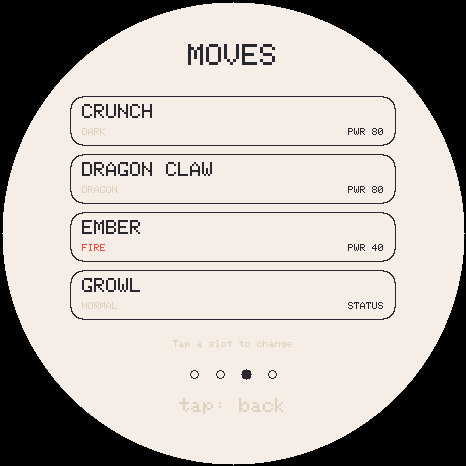
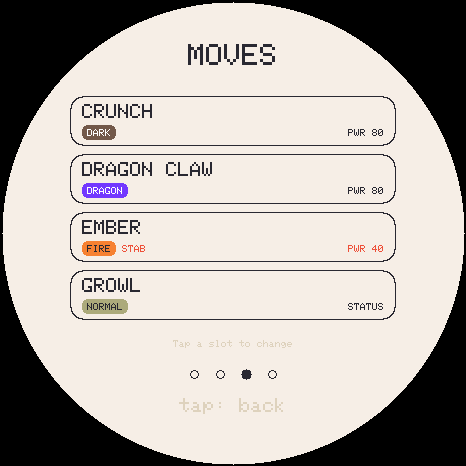
Gate the move picker properly, and make a move's type readable
Two things reported from the board.

THE PICKER HAD ITS OWN GATE. learnableFor() checked learnLevel() alone,
and a TM is stored as level 0 in the learnsets -- PokeAPI flattens TM,
tutor and egg moves that way -- so 0 > lvl is false at ANY level and
every TM the species can ever learn was on offer from level 1. Hence a
level 22 Charmeleon being handed FIRE BLAST, 110 power.

This is the level 1 Squirtle with SURF, in the one path that fix never
reached: TM_LEVEL was enforced in relearnFromLevel() and in the STAB
fallback, both inside pet.cpp, while the picker in the sketch had its own
opinion. There is one answer now, moveUnlockLevel(), and all three ask
it. A Charmeleon at 22 gets EMBER GROWL SCRATCH LEER -- exactly its
level-up set -- with FLAMETHROWER at 34, the TMs at 40 and DRAGON RAGE
at 48.

Pinned twice on purpose. moves_test asserts the RULE (no entry unlocks at
0, no TM before 20, and Charmeleon's real levels are untouched), and
swipe_test asserts the SCREEN asks it, because reverting the picker alone
failed nothing otherwise -- the rule being right does not prove the
caller uses it.

TYPE IS NOW A COLOURED CHIP rather than grey 6px text, on the move rows
and in the battle grid. In a game whose entire combat model is the type
chart, the type was the least legible thing on screen. TYPE_COL is
hand-written in types.h because it is not derived from anything --
DexEntry.accent is per species and says nothing about a move -- and the
[…]

diff --git a/tools/emu/tests/swipe_test.cpp b/tools/emu/tests/swipe_test.cpp
@@ -6,6 +6,7 @@
 #include "Arduino_GFX_Library.h"
 #include "Preferences.h"
 #include "pet.h"
+#include "moves.h"
 #include "party.h"
 #include <cstdio>
 uint32_t g_seed=2; FakeSerial Serial; FakeESP ESP; FakeWire Wire;
@@ -43,6 +44,8 @@ static void check(const char *name, bool *open, uint8_t *page){
   if (*page != 1) { printf("FAIL  %-10s did not advance a page (page=%u)\n", name, *page); bad++; return; }
   printf("PASS  %-10s pages on a horizontal swipe\n", name);
 }
+uint8_t learnableFor(int16_t dex, uint8_t lvl, uint8_t *out, uint8_t max);
+
 int main(){
   setup();
   for (int i=0;i<4;i++) render();
@@ -144,6 +147,26 @@ int main(){
     onSwipe(1);
     if (!galleryPick || !galleryOpen) { printf("FAIL  gallery    paging back does not return to the chooser\n"); bad++; }
     else printf("PASS  %-10s paging back returns to the chooser\n", "gallery");
+  }
+
+  // The rule lives in moveUnlockLevel() and moves_test pins it -- but the
+  // PICKER has to actually ask it. It once kept its own copy of the check,
+  // which IS the bug, so this drives the screen's own list, not the rule.
+  {
+    uint8_t l[64];
+    uint8_t n = learnableFor(5, 22, l, sizeof(l));    // a Charmeleon at 22
+    bool blast = false, ember = false;
+    for (uint8_t i = 0; i < n; i++) {
+      if (!strcmp(MOVE_TBL[l[i]].name, "FIRE BLAST")) blast = true;
+      if (!strcmp(MOVE_TBL[l[i]].name, "EMBER")) ember = true;
+    }
+    if (blast) { printf("FAIL  picker     offers a level 22 Charmeleon FIRE BLAST\n"); bad++; }
+    else printf("PASS  picker     no FIRE BLAST for a level 22 Charmeleon\n");
+    if (!ember) { printf("FAIL  picker     lost the moves it really knows\n"); bad++; }
+    else printf("PASS  picker     still offers what it really knows\n");
+    if (learnableFor(5, 40, l, sizeof(l)) <= n) {
+      printf("FAIL  picker     TMs never arrive at all\n"); bad++;
+    } else printf("PASS  picker     and the TMs arrive once it is built\n");
   }
 
   printf("%s\n", bad?"FAILURES":"every paged screen pages");

diff --git a/tools/emu/tests/moves_test.cpp b/tools/emu/tests/moves_test.cpp
@@ -133,6 +133,38 @@ int main() {
   ck(aligned, "legacy party blob migrates with slots still aligned");
   ck(pty.count() == PARTY_SLOTS, "all 6 legacy members survive");
 
+  // The MOVE PICKER had its own gate and so its own opinion: it checked
+  // learnLevel() alone, and a TM is stored as level 0, so a level 22 Charmeleon
+  // was offered FIRE BLAST (110 power). Found by hand on the board, exactly
+  // like the level 1 Squirtle holding SURF -- the same bug in the one path that
+  // fix never reached. moveUnlockLevel() is the single answer now.
+  {
+    int zero = 0, tooEarly = 0;
+    for (int16_t d = 1; d <= DEX_COUNT; d++)
+      for (uint8_t i = 0; i < learnCount(d); i++) {
+        uint8_t at = moveUnlockLevel(d, i);
+        if (at == 0) zero++;
+        if (learnLevel(d, i) == 0 && at < 20) tooEarly++;
+      }
+    ck(zero == 0, "no learnset entry anywhere unlocks at level 0");
+    ck(tooEarly == 0, "and no TM is reachable before a creature is built");
+
+    const int16_t CHARMELEON = 5;
+    bool early = false, late = false, ember1 = false, flame34 = false;
+    for (uint8_t i = 0; i < learnCount(CHARMELEON); i++) {
+      uint8_t mv = learnMove(CHARMELEON, i);
+      if (mv >= MOVE_COUNT) continue;
+      uint8_t at = moveUnlockLevel(CHARMELEON, i);
+      if (!strcmp(MOVE_TBL[mv].name, "FIRE BLAST")) { early = at <= 22; late = at >= 40; }
+      if (!strcmp(MOVE_TBL[mv].name, "EMBER")) ember1 = (at == 1);
+      if (!strcmp(MOVE_TBL[mv].name, "FLAMETHROWER")) flame34 = (at == 34);
+    }
+    ck(!early, "a level 22 Charmeleon is NOT offered FIRE BLAST");
+    ck(late, "it waits for the TM level like every other TM");
+    ck(ember1 && flame34,
+       "while its real level-up moves keep their real levels (EMBER 1, FLAMETHROWER 34)");
+  }
+
   printf("%s\n", bad ? "FAILURES" : "all good");
   return bad ? 1 : 0;
 }

diff --git a/types.h b/types.h
@@ -40,3 +40,32 @@ static inline const char *typeName(uint8_t t) {
   };
   return (t < TYPE_COUNT) ? N[t] : "?";
 }
+
+// One colour per type, for the chips on move rows and the battle grid. The move
+// list used to print the type as grey 6px text, which on a 466px round panel at
+// arm's length is unreadable -- and type is the single most important thing
+// about a move in a game whose whole combat model is the type chart.
+//
+// These are the standard series type colours converted to RGB565. They are
+// hand-written rather than generated because they are not derived from anything:
+// DexEntry.accent is per SPECIES and says nothing about a move.
+static const uint16_t TYPE_COL[TYPE_COUNT] = {
+  0xAD4F, 0xF406, 0x6C9E,     // NORMAL, FIRE, WATER
+  0xFE86, 0x7E4A, 0x9EDB,     // ELECTRIC, GRASS, ICE
+  0xC185, 0xA214, 0xE60D,     // FIGHTING, POISON, GROUND
+  0xAC9E, 0xFAD1, 0xADC4,     // FLYING, PSYCHIC, BUG
+  0xBD07, 0x72D3, 0x71DF,     // ROCK, GHOST, DRAGON
+  0x72C9, 0xBDDA, 0xECD5,     // DARK, STEEL, FAIRY
+};
+
+// Whether a type's colour is light enough to need dark text on it. Precomputed
+// from the same luminance the eye uses (0.299/0.587/0.114) so the label never
+// comes out grey-on-yellow.
+static const uint8_t TYPE_COL_LIGHT[TYPE_COUNT] = { 1, 1, 0, 1, 1, 1, 0, 0, 1, 1, 0, 1, 1, 0, 0, 0, 1, 1 };
+
+static inline uint16_t typeColor(uint8_t t) {
+  return t < TYPE_COUNT ? TYPE_COL[t] : 0x8410;
+}
+static inline bool typeColorIsLight(uint8_t t) {
+  return t < TYPE_COUNT && TYPE_COL_LIGHT[t];
+}

diff --git a/pet.h b/pet.h
@@ -37,6 +37,8 @@ enum : uint16_t {
 };
 #define MED_COUNT 8
 
+uint8_t moveUnlockLevel(int16_t dex, uint8_t idx);
+
 class Pet {
 public:
   // Estadisticas 0..100
@@ -132,6 +134,14 @@ public:
   // The newest MOVE_SLOTS moves this species has learned by its current level,
   // newest last. Used on hatch, on a fresh save, and to backfill empty slots.
   void relearnFromLevel();
+  // The level at which `dex` may legally use learnset entry `i`. A level-up
+  // move carries its own; a level-0 entry is a TM/tutor/egg move, which the
+  // data gives no level at all, and those unlock together at TM_LEVEL.
+  //
+  // It is a free function, not a Pet method, because the move PICKER needs the
+  // identical answer for a banked party member. Having its own gate is what let
+  // a level 22 Charmeleon be offered FIRE BLAST.
+
   // Moves reachable at this level that are not already known, for the learn
   // prompt. Returns how many were written into out (at most max).
   uint8_t pendingLearnables(uint8_t *out, uint8_t max) const;

diff --git a/pet.cpp b/pet.cpp
@@ -539,6 +539,16 @@ static uint8_t tmLevelFor(const MoveEntry &m) {
   return TM_LEVEL;
 }
 
+// THE single answer, used by relearnFromLevel(), by the STAB fallback and by
+// the move picker in the sketch. Three call sites once had three opinions.
+uint8_t moveUnlockLevel(int16_t dex, uint8_t idx) {
+  uint8_t at = learnLevel(dex, idx);
+  if (at > 0) return at;                 // a real level-up move
+  uint8_t mv = learnMove(dex, idx);
+  if (!mv || mv >= MOVE_COUNT) return 255;
+  return tmLevelFor(MOVE_TBL[mv]);       // a TM: no natural level, so the gate
+}
+
 void Pet::relearnFromLevel() {
   for (int i = 0; i < MOVE_SLOTS; i++) moves[i] = 0;
   if (isEgg()) return;

diff --git a/tools/emu/main_sdl.cpp b/tools/emu/main_sdl.cpp
@@ -201,6 +201,7 @@ static int shotMode(const char *screen, const char *out, int lvl, int iv, int de
   else if (!strcmp(screen, "battle2")) { startBattle(9, 50); }
   else if (!strcmp(screen, "btlmenu")) { startTrainerBattle(3, false); }
   else if (!strcmp(screen, "btlswitch")) { startTrainerBattle(3, false); btlMenu = 2; }
+  else if (!strcmp(screen, "btlmoves")) { startTrainerBattle(3, false); btlMenu = 1; }
   else if (!strcmp(screen, "battleanim")) {
     startBattle(9, 50);
     btlFoe.hp = btlFoe.maxHp / 3;      // bar mid-drain
